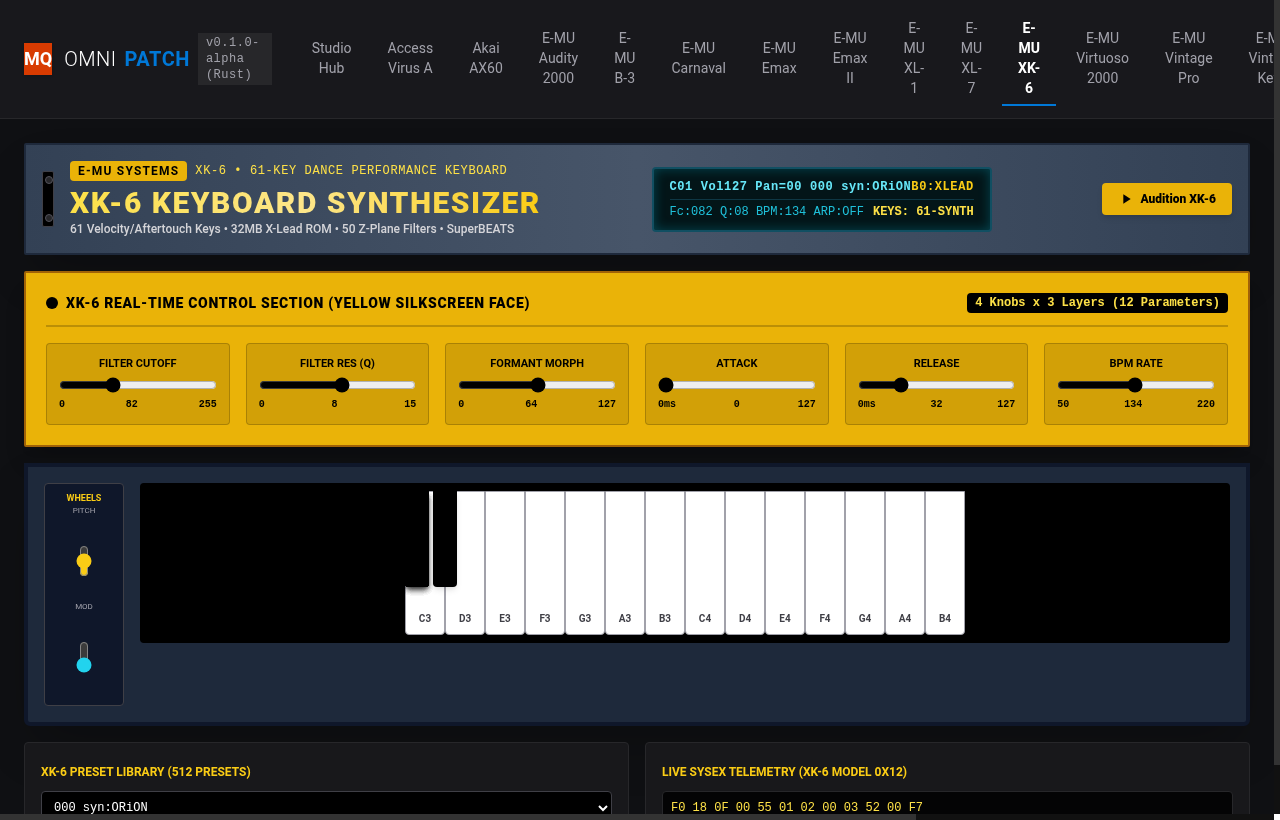
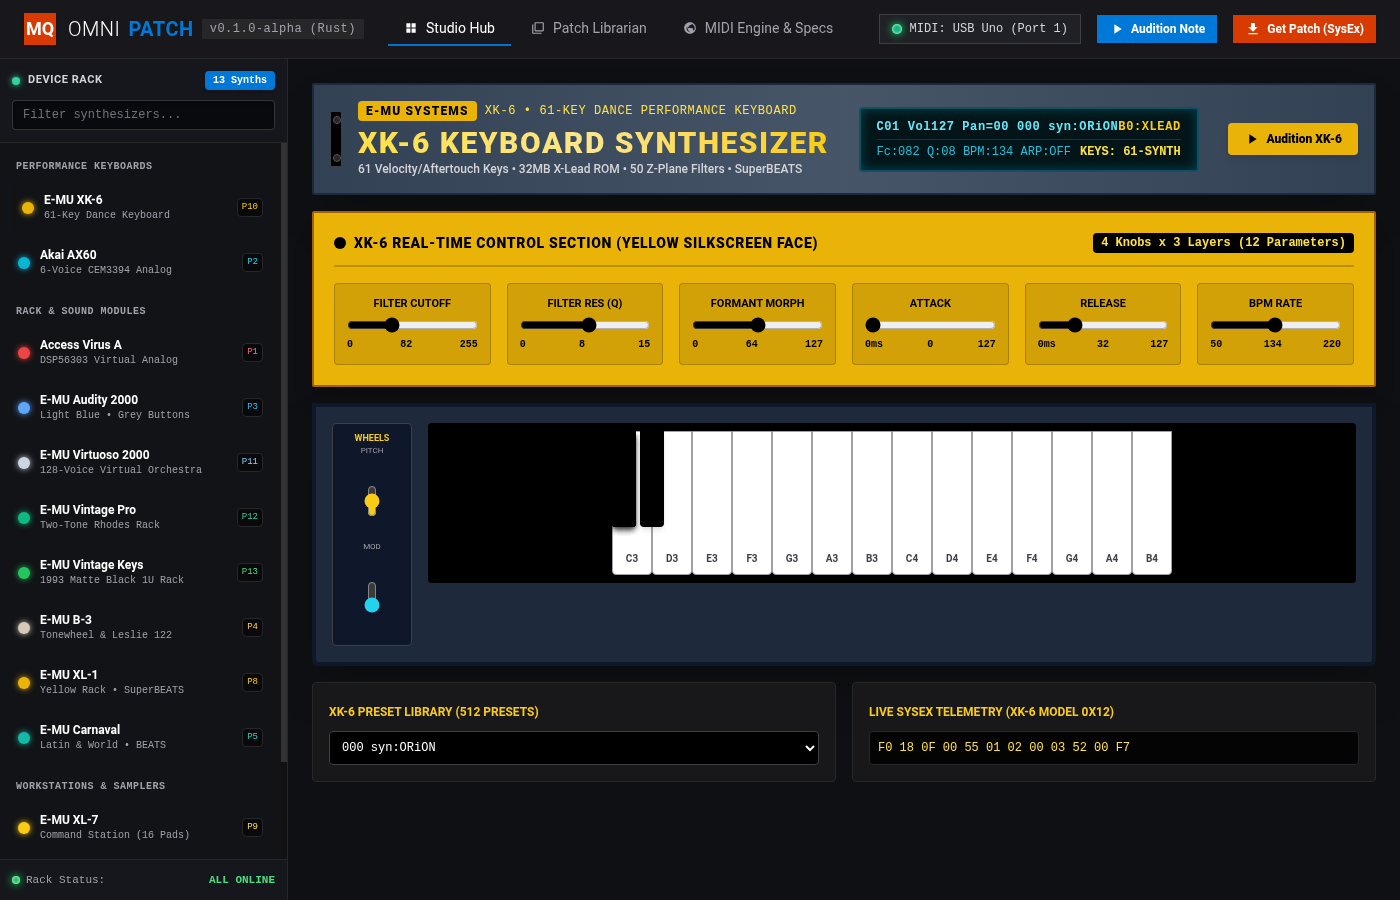
Rework UI: move synthesizers to scrollable categorized sidebar rack

diff --git a/preview/index.html b/preview/index.html
@@ -91,7 +91,7 @@
     }
   </style>
 </head>
-<body class="bg-[#0f1013] text-zinc-100 min-h-screen flex flex-col antialiased selection:bg-[#0078d7] selection:text-white">
+<body class="bg-[#0f1013] text-zinc-100 h-screen flex flex-col antialiased overflow-hidden selection:bg-[#0078d7] selection:text-white">
 
   <!-- TOP METRO HEADER -->
   <header class="bg-[#18181c] border-b border-zinc-800 px-6 py-3 flex items-center justify-between">
@@ -108,54 +108,18 @@
         </div>
       </div>
 
-      <!-- Metro Nav Tabs -->
+      <!-- Metro Nav Tabs (Studio Core) -->
       <nav class="flex items-center gap-1 text-sm font-normal">
-        <button onclick="switchView('dashboard')" id="nav-dashboard" class="px-4 py-1.5 transition text-white border-b-2 border-[#0078d7] font-semibold">
+        <button onclick="switchView('dashboard')" id="nav-dashboard" class="px-4 py-1.5 transition text-white border-b-2 border-[#0078d7] font-semibold flex items-center gap-2">
+          <svg class="w-3.5 h-3.5 fill-current" viewBox="0 0 24 24"><path d="M4 4h7v7H4V4zm9 0h7v7h-7V4zm-9 9h7v7H4v-7zm9 0h7v7h-7v-7z"/></svg>
           Studio Hub
         </button>
-        <button onclick="switchView('editor')" id="nav-editor" class="px-4 py-1.5 transition text-zinc-400 hover:text-white hover:bg-zinc-800/60 border-b-2 border-transparent">
-          Access Virus A
-        </button>
-        <button onclick="switchView('ax60')" id="nav-ax60" class="px-4 py-1.5 transition text-zinc-400 hover:text-white hover:bg-zinc-800/60 border-b-2 border-transparent">
-          Akai AX60
-        </button>
-        <button onclick="switchView('audity')" id="nav-audity" class="px-4 py-1.5 transition text-zinc-400 hover:text-white hover:bg-zinc-800/60 border-b-2 border-transparent">
-          E-MU Audity 2000
-        </button>
-        <button onclick="switchView('b3')" id="nav-b3" class="px-4 py-1.5 transition text-zinc-400 hover:text-white hover:bg-zinc-800/60 border-b-2 border-transparent">
-          E-MU B-3
-        </button>
-        <button onclick="switchView('carnaval')" id="nav-carnaval" class="px-4 py-1.5 transition text-zinc-400 hover:text-white hover:bg-zinc-800/60 border-b-2 border-transparent">
-          E-MU Carnaval
-        </button>
-        <button onclick="switchView('emax')" id="nav-emax" class="px-4 py-1.5 transition text-zinc-400 hover:text-white hover:bg-zinc-800/60 border-b-2 border-transparent">
-          E-MU Emax
-        </button>
-        <button onclick="switchView('emax2')" id="nav-emax2" class="px-4 py-1.5 transition text-zinc-400 hover:text-white hover:bg-zinc-800/60 border-b-2 border-transparent">
-          E-MU Emax II
-        </button>
-        <button onclick="switchView('xl1')" id="nav-xl1" class="px-4 py-1.5 transition text-zinc-400 hover:text-white hover:bg-zinc-800/60 border-b-2 border-transparent">
-          E-MU XL-1
-        </button>
-        <button onclick="switchView('xl7')" id="nav-xl7" class="px-4 py-1.5 transition text-zinc-400 hover:text-white hover:bg-zinc-800/60 border-b-2 border-transparent">
-          E-MU XL-7
-        </button>
-        <button onclick="switchView('xk6')" id="nav-xk6" class="px-4 py-1.5 transition text-zinc-400 hover:text-white hover:bg-zinc-800/60 border-b-2 border-transparent">
-          E-MU XK-6
-        </button>
-        <button onclick="switchView('virtuoso')" id="nav-virtuoso" class="px-4 py-1.5 transition text-zinc-400 hover:text-white hover:bg-zinc-800/60 border-b-2 border-transparent">
-          E-MU Virtuoso 2000
-        </button>
-        <button onclick="switchView('vintagepro')" id="nav-vintagepro" class="px-4 py-1.5 transition text-zinc-400 hover:text-white hover:bg-zinc-800/60 border-b-2 border-transparent">
-          E-MU Vintage Pro
-        </button>
-        <button onclick="switchView('vintagekeys')" id="nav-vintagekeys" class="px-4 py-1.5 transition text-zinc-400 hover:text-white hover:bg-zinc-800/60 border-b-2 border-transparent">
-          E-MU Vintage Keys
-        </button>
-        <button onclick="switchView('librarian')" id="nav-librarian" class="px-4 py-1.5 transition text-zinc-400 hover:text-white hover:bg-zinc-800/60 border-b-2 border-transparent">
+        <button onclick="switchView('librarian')" id="nav-librarian" class="px-4 py-1.5 transition text-zinc-400 hover:text-white hover:bg-zinc-800/60 border-b-2 border-transparent flex items-center gap-2">
+          <svg class="w-3.5 h-3.5 fill-current" viewBox="0 0 24 24"><path d="M4 6H2v14c0 1.1.9 2 2 2h14v-2H4V6zm16-4H8c-1.1 0-2 .9-2 2v12c0 1.1.9 2 2 2h12c1.1 0 2-.9 2-2V4c0-1.1-.9-2-2-2zm0 14H8V4h12v12z"/></svg>
           Patch Librarian
         </button>
-        <button onclick="switchView('midi')" id="nav-midi" class="px-4 py-1.5 transition text-zinc-400 hover:text-white hover:bg-zinc-800/60 border-b-2 border-transparent">
+        <button onclick="switchView('midi')" id="nav-midi" class="px-4 py-1.5 transition text-zinc-400 hover:text-white hover:bg-zinc-800/60 border-b-2 border-transparent flex items-center gap-2">
+          <svg class="w-3.5 h-3.5 fill-current" viewBox="0 0 24 24"><path d="M12 2C6.48 2 2 6.48 2 12s4.48 10 10 10 10-4.48 10-10S17.52 2 12 2zm1 17.93c-3.95-.49-7-3.85-7-7.93 0-.62.08-1.21.21-1.79L9 15v1c0 1.1.9 2 2 2v1.93zm6.9-2.54c-.26-.81-1-1.39-1.9-1.39h-1v-3c0-.55-.45-1-1-1H8v-2h2c.55 0 1-.45 1-1V7h2c1.1 0 2-.9 2-2v-.41c2.93 1.19 5 4.06 5 7.41 0 2.08-.8 3.97-2.1 5.39z"/></svg>
           MIDI Engine & Specs
         </button>
       </nav>
@@ -178,8 +142,215 @@
     </div>
   </header>
 
-  <!-- MAIN CONTENT CONTAINER -->
-  <main class="flex-1 p-6 overflow-y-auto">
+  <!-- WORKSPACE WRAPPER (SIDEBAR + MAIN CONTENT) -->
+  <div class="flex-1 flex overflow-hidden">
+
+    <!-- SCROLLABLE SYNTHESIZERS SIDEBAR -->
+    <aside class="w-64 md:w-72 bg-[#121316] border-r border-zinc-800 flex flex-col shrink-0 select-none">
+      
+      <!-- Sidebar Header -->
+      <div class="p-3 border-b border-zinc-800 bg-[#16171d] space-y-2.5">
+        <div class="flex items-center justify-between">
+          <div class="flex items-center gap-2">
+            <span class="w-2 h-2 rounded-full bg-emerald-400 shadow-[0_0_6px_#34d399]"></span>
+            <span class="text-[11px] font-bold uppercase tracking-wider text-zinc-300">Device Rack</span>
+          </div>
+          <span class="text-[10px] font-mono font-bold bg-[#0078d7] text-white px-2 py-0.5 rounded shadow">13 Synths</span>
+        </div>
+        <div class="relative">
+          <input type="text" id="sidebar-search" placeholder="Filter synthesizers..." oninput="filterSidebarSynths(this.value)" class="w-full bg-[#090a0d] border border-zinc-700/80 text-xs px-2.5 py-1.5 rounded text-zinc-200 placeholder-zinc-500 font-mono focus:outline-none focus:border-[#0078d7] transition shadow-inner">
+        </div>
+      </div>
+
+      <!-- Scrollable Device List -->
+      <div class="flex-1 overflow-y-auto p-2 space-y-1 custom-scroll" id="sidebar-synth-list">
+        
+        <!-- Category: Performance Keyboards -->
+        <div class="px-2 pt-2 pb-1 text-[10px] font-bold uppercase tracking-wider text-zinc-400 font-mono">
+          Performance Keyboards
+        </div>
+
+        <!-- E-MU XK-6 -->
+        <button onclick="switchView('xk6')" id="nav-xk6" class="w-full text-left p-2.5 rounded transition flex items-center justify-between border-l-4 border-transparent text-zinc-400 hover:text-white hover:bg-[#1a1b22] group">
+          <div class="flex items-center gap-2.5 min-w-0">
+            <span class="w-3 h-3 rounded-full bg-[#eab308] shadow-[0_0_6px_#eab308] shrink-0"></span>
+            <div class="truncate">
+              <div class="text-xs font-bold text-white group-hover:text-yellow-300 truncate">E-MU XK-6</div>
+              <div class="text-[10px] text-zinc-400 font-mono truncate">61-Key Dance Keyboard</div>
+            </div>
+          </div>
+          <span class="text-[9px] font-mono px-1 py-0.5 rounded bg-black/50 text-yellow-400 border border-zinc-800 shrink-0">P10</span>
+        </button>
+
+        <!-- Akai AX60 -->
+        <button onclick="switchView('ax60')" id="nav-ax60" class="w-full text-left p-2.5 rounded transition flex items-center justify-between border-l-4 border-transparent text-zinc-400 hover:text-white hover:bg-[#1a1b22] group">
+          <div class="flex items-center gap-2.5 min-w-0">
+            <span class="w-3 h-3 rounded-full bg-[#06b6d4] shadow-[0_0_6px_#06b6d4] shrink-0"></span>
+            <div class="truncate">
+              <div class="text-xs font-bold text-white group-hover:text-cyan-300 truncate">Akai AX60</div>
+              <div class="text-[10px] text-zinc-400 font-mono truncate">6-Voice CEM3394 Analog</div>
+            </div>
+          </div>
+          <span class="text-[9px] font-mono px-1 py-0.5 rounded bg-black/50 text-cyan-400 border border-zinc-800 shrink-0">P2</span>
+        </button>
+
+        <!-- Category: Modular & Rack Synthesizers -->
+        <div class="px-2 pt-3 pb-1 text-[10px] font-bold uppercase tracking-wider text-zinc-400 font-mono">
+          Rack & Sound Modules
+        </div>
+
+        <!-- Access Virus A -->
+        <button onclick="switchView('editor')" id="nav-editor" class="w-full text-left p-2.5 rounded transition flex items-center justify-between border-l-4 border-transparent text-zinc-400 hover:text-white hover:bg-[#1a1b22] group">
+          <div class="flex items-center gap-2.5 min-w-0">
+            <span class="w-3 h-3 rounded-full bg-[#ef4444] shadow-[0_0_6px_#ef4444] shrink-0"></span>
+            <div class="truncate">
+              <div class="text-xs font-bold text-white group-hover:text-red-300 truncate">Access Virus A</div>
+              <div class="text-[10px] text-zinc-400 font-mono truncate">DSP56303 Virtual Analog</div>
+            </div>
+          </div>
+          <span class="text-[9px] font-mono px-1 py-0.5 rounded bg-black/50 text-red-400 border border-zinc-800 shrink-0">P1</span>
+        </button>
+
+        <!-- E-MU Audity 2000 -->
+        <button onclick="switchView('audity')" id="nav-audity" class="w-full text-left p-2.5 rounded transition flex items-center justify-between border-l-4 border-transparent text-zinc-400 hover:text-white hover:bg-[#1a1b22] group">
+          <div class="flex items-center gap-2.5 min-w-0">
+            <span class="w-3 h-3 rounded-full bg-[#60a5fa] shadow-[0_0_6px_#60a5fa] shrink-0"></span>
+            <div class="truncate">
+              <div class="text-xs font-bold text-white group-hover:text-sky-300 truncate">E-MU Audity 2000</div>
+              <div class="text-[10px] text-zinc-400 font-mono truncate">Light Blue • Grey Buttons</div>
+            </div>
+          </div>
+          <span class="text-[9px] font-mono px-1 py-0.5 rounded bg-black/50 text-sky-400 border border-zinc-800 shrink-0">P3</span>
+        </button>
+
+        <!-- E-MU Virtuoso 2000 -->
+        <button onclick="switchView('virtuoso')" id="nav-virtuoso" class="w-full text-left p-2.5 rounded transition flex items-center justify-between border-l-4 border-transparent text-zinc-400 hover:text-white hover:bg-[#1a1b22] group">
+          <div class="flex items-center gap-2.5 min-w-0">
+            <span class="w-3 h-3 rounded-full bg-[#cbd5e1] shadow-[0_0_6px_#cbd5e1] shrink-0"></span>
+            <div class="truncate">
+              <div class="text-xs font-bold text-white group-hover:text-sky-300 truncate">E-MU Virtuoso 2000</div>
+              <div class="text-[10px] text-zinc-400 font-mono truncate">128-Voice Virtual Orchestra</div>
+            </div>
+          </div>
+          <span class="text-[9px] font-mono px-1 py-0.5 rounded bg-black/50 text-sky-300 border border-zinc-800 shrink-0">P11</span>
+        </button>
+
+        <!-- E-MU Vintage Pro -->
+        <button onclick="switchView('vintagepro')" id="nav-vintagepro" class="w-full text-left p-2.5 rounded transition flex items-center justify-between border-l-4 border-transparent text-zinc-400 hover:text-white hover:bg-[#1a1b22] group">
+          <div class="flex items-center gap-2.5 min-w-0">
+            <span class="w-3 h-3 rounded-full bg-[#10b981] shadow-[0_0_6px_#10b981] shrink-0"></span>
+            <div class="truncate">
+              <div class="text-xs font-bold text-white group-hover:text-emerald-300 truncate">E-MU Vintage Pro</div>
+              <div class="text-[10px] text-zinc-400 font-mono truncate">Two-Tone Rhodes Rack</div>
+            </div>
+          </div>
+          <span class="text-[9px] font-mono px-1 py-0.5 rounded bg-black/50 text-emerald-400 border border-zinc-800 shrink-0">P12</span>
+        </button>
+
+        <!-- E-MU Vintage Keys -->
+        <button onclick="switchView('vintagekeys')" id="nav-vintagekeys" class="w-full text-left p-2.5 rounded transition flex items-center justify-between border-l-4 border-transparent text-zinc-400 hover:text-white hover:bg-[#1a1b22] group">
+          <div class="flex items-center gap-2.5 min-w-0">
+            <span class="w-3 h-3 rounded-full bg-[#22c55e] shadow-[0_0_6px_#22c55e] shrink-0"></span>
+            <div class="truncate">
+              <div class="text-xs font-bold text-white group-hover:text-green-300 truncate">E-MU Vintage Keys</div>
+              <div class="text-[10px] text-zinc-400 font-mono truncate">1993 Matte Black 1U Rack</div>
+            </div>
+          </div>
+          <span class="text-[9px] font-mono px-1 py-0.5 rounded bg-black/50 text-green-400 border border-zinc-800 shrink-0">P13</span>
+        </button>
+
+        <!-- E-MU B-3 -->
+        <button onclick="switchView('b3')" id="nav-b3" class="w-full text-left p-2.5 rounded transition flex items-center justify-between border-l-4 border-transparent text-zinc-400 hover:text-white hover:bg-[#1a1b22] group">
+          <div class="flex items-center gap-2.5 min-w-0">
+            <span class="w-3 h-3 rounded-full bg-[#d5c9b7] shadow-[0_0_6px_#d5c9b7] shrink-0"></span>
+            <div class="truncate">
+              <div class="text-xs font-bold text-white group-hover:text-amber-200 truncate">E-MU B-3</div>
+              <div class="text-[10px] text-zinc-400 font-mono truncate">Tonewheel & Leslie 122</div>
+            </div>
+          </div>
+          <span class="text-[9px] font-mono px-1 py-0.5 rounded bg-black/50 text-amber-300 border border-zinc-800 shrink-0">P4</span>
+        </button>
+
+        <!-- E-MU Xtreme Lead-1 -->
+        <button onclick="switchView('xl1')" id="nav-xl1" class="w-full text-left p-2.5 rounded transition flex items-center justify-between border-l-4 border-transparent text-zinc-400 hover:text-white hover:bg-[#1a1b22] group">
+          <div class="flex items-center gap-2.5 min-w-0">
+            <span class="w-3 h-3 rounded-full bg-[#eab308] shadow-[0_0_6px_#eab308] shrink-0"></span>
+            <div class="truncate">
+              <div class="text-xs font-bold text-white group-hover:text-yellow-300 truncate">E-MU XL-1</div>
+              <div class="text-[10px] text-zinc-400 font-mono truncate">Yellow Rack • SuperBEATS</div>
+            </div>
+          </div>
+          <span class="text-[9px] font-mono px-1 py-0.5 rounded bg-black/50 text-yellow-400 border border-zinc-800 shrink-0">P8</span>
+        </button>
+
+        <!-- E-MU Carnaval -->
+        <button onclick="switchView('carnaval')" id="nav-carnaval" class="w-full text-left p-2.5 rounded transition flex items-center justify-between border-l-4 border-transparent text-zinc-400 hover:text-white hover:bg-[#1a1b22] group">
+          <div class="flex items-center gap-2.5 min-w-0">
+            <span class="w-3 h-3 rounded-full bg-[#14b8a6] shadow-[0_0_6px_#14b8a6] shrink-0"></span>
+            <div class="truncate">
+              <div class="text-xs font-bold text-white group-hover:text-teal-300 truncate">E-MU Carnaval</div>
+              <div class="text-[10px] text-zinc-400 font-mono truncate">Latin & World • BEATS</div>
+            </div>
+          </div>
+          <span class="text-[9px] font-mono px-1 py-0.5 rounded bg-black/50 text-teal-400 border border-zinc-800 shrink-0">P5</span>
+        </button>
+
+        <!-- Category: Workstations & Samplers -->
+        <div class="px-2 pt-3 pb-1 text-[10px] font-bold uppercase tracking-wider text-zinc-400 font-mono">
+          Workstations & Samplers
+        </div>
+
+        <!-- E-MU XL-7 -->
+        <button onclick="switchView('xl7')" id="nav-xl7" class="w-full text-left p-2.5 rounded transition flex items-center justify-between border-l-4 border-transparent text-zinc-400 hover:text-white hover:bg-[#1a1b22] group">
+          <div class="flex items-center gap-2.5 min-w-0">
+            <span class="w-3 h-3 rounded-full bg-[#facc15] shadow-[0_0_6px_#facc15] shrink-0"></span>
+            <div class="truncate">
+              <div class="text-xs font-bold text-white group-hover:text-yellow-200 truncate">E-MU XL-7</div>
+              <div class="text-[10px] text-zinc-400 font-mono truncate">Command Station (16 Pads)</div>
+            </div>
+          </div>
+          <span class="text-[9px] font-mono px-1 py-0.5 rounded bg-black/50 text-yellow-300 border border-zinc-800 shrink-0">P9</span>
+        </button>
+
+        <!-- E-MU Emax II -->
+        <button onclick="switchView('emax2')" id="nav-emax2" class="w-full text-left p-2.5 rounded transition flex items-center justify-between border-l-4 border-transparent text-zinc-400 hover:text-white hover:bg-[#1a1b22] group">
+          <div class="flex items-center gap-2.5 min-w-0">
+            <span class="w-3 h-3 rounded-full bg-[#f59e0b] shadow-[0_0_6px_#f59e0b] shrink-0"></span>
+            <div class="truncate">
+              <div class="text-xs font-bold text-white group-hover:text-amber-300 truncate">E-MU Emax II</div>
+              <div class="text-[10px] text-zinc-400 font-mono truncate">16-Bit Stereo Workstation</div>
+            </div>
+          </div>
+          <span class="text-[9px] font-mono px-1 py-0.5 rounded bg-black/50 text-amber-400 border border-zinc-800 shrink-0">P7</span>
+        </button>
+
+        <!-- E-MU Emax -->
+        <button onclick="switchView('emax')" id="nav-emax" class="w-full text-left p-2.5 rounded transition flex items-center justify-between border-l-4 border-transparent text-zinc-400 hover:text-white hover:bg-[#1a1b22] group">
+          <div class="flex items-center gap-2.5 min-w-0">
+            <span class="w-3 h-3 rounded-full bg-[#94a3b8] shadow-[0_0_6px_#94a3b8] shrink-0"></span>
+            <div class="truncate">
+              <div class="text-xs font-bold text-white group-hover:text-slate-300 truncate">E-MU Emax</div>
+              <div class="text-[10px] text-zinc-400 font-mono truncate">12-Bit Analog SSM2047</div>
+            </div>
+          </div>
+          <span class="text-[9px] font-mono px-1 py-0.5 rounded bg-black/50 text-slate-300 border border-zinc-800 shrink-0">P6</span>
+        </button>
+
+      </div>
+
+      <!-- Sidebar Footer -->
+      <div class="p-3 border-t border-zinc-800 bg-[#16171d] text-[11px] text-zinc-400 flex items-center justify-between font-mono">
+        <span class="flex items-center gap-1.5">
+          <span class="w-2 h-2 rounded-full bg-green-500 led-green"></span>
+          <span>Rack Status:</span>
+        </span>
+        <span class="text-green-400 font-bold">ALL ONLINE</span>
+      </div>
+
+    </aside>
+
+    <!-- MAIN CONTENT CONTAINER -->
+    <main class="flex-1 p-6 overflow-y-auto">
 
     <!-- VIEW 1: METRO STUDIO DASHBOARD -->
     <section id="view-dashboard" class="space-y-6">
@@ -6816,6 +6987,7 @@
     </section>
 
   </main>
+  </div>
 
   <!-- JAVASCRIPT STATE & INTERACTIVITY -->
   <script>
@@ -6831,18 +7003,43 @@
 
     // View Switching
     function switchView(viewName) {
-      ['dashboard', 'editor', 'ax60', 'audity', 'b3', 'carnaval', 'emax', 'emax2', 'xl1', 'xl7', 'xk6', 'virtuoso', 'vintagepro', 'vintagekeys', 'librarian', 'midi'].forEach(v => {
+      const topViews = ['dashboard', 'librarian', 'midi'];
+      const synthViews = ['editor', 'ax60', 'audity', 'b3', 'carnaval', 'emax', 'emax2', 'xl1', 'xl7', 'xk6', 'virtuoso', 'vintagepro', 'vintagekeys'];
+      const allViews = [...topViews, ...synthViews];
+
+      allViews.forEach(v => {
         const el = document.getElementById('view-' + v);
         const nav = document.getElementById('nav-' + v);
-        if (el && nav) {
+        
+        // Hide / Show view panels
+        if (el) {
           if (v === viewName) {
             el.classList.remove('hidden');
-            nav.classList.add('text-white', 'border-[#0078d7]', 'font-semibold');
-            nav.classList.remove('text-zinc-400', 'border-transparent');
           } else {
             el.classList.add('hidden');
-            nav.classList.remove('text-white', 'border-[#0078d7]', 'font-semibold');
-            nav.classList.add('text-zinc-400', 'border-transparent');
+          }
+        }
+
+        // Update Nav button styling
+        if (nav) {
+          if (topViews.includes(v)) {
+            // Top Bar tabs
+            if (v === viewName) {
+              nav.classList.add('text-white', 'border-[#0078d7]', 'font-semibold');
+              nav.classList.remove('text-zinc-400', 'border-transparent');
+            } else {
+              nav.classList.remove('text-white', 'border-[#0078d7]', 'font-semibold');
+              nav.classList.add('text-zinc-400', 'border-transparent');
+            }
+          } else {
+            // Sidebar buttons
+            if (v === viewName) {
+              nav.classList.add('bg-[#1e2330]', 'border-l-4', 'border-[#0078d7]', 'text-white', 'shadow-md');
+              nav.classList.remove('border-transparent', 'text-zinc-400');
+            } else {
+              nav.classList.remove('bg-[#1e2330]', 'border-l-4', 'border-[#0078d7]', 'text-white', 'shadow-md');
+              nav.classList.add('border-transparent', 'text-zinc-400');
+            }
           }
         }
       });
@@ -7020,6 +7217,16 @@
     }
 
     // Audition Note Function (Simulated MIDI Note-On / Note-Off)
+
+    function filterSidebarSynths(query) {
+      const q = query.toLowerCase().trim();
+      const buttons = document.querySelectorAll('#sidebar-synth-list button');
+      buttons.forEach(btn => {
+        const text = btn.innerText.toLowerCase();
+        btn.style.display = text.includes(q) ? 'flex' : 'none';
+      });
+    }
+
     function auditionPatch() {
       const noteOnHex = "90 3C 64"; // Note C4, Vel 100 on Ch 1
       const noteOffHex = "80 3C 00";
